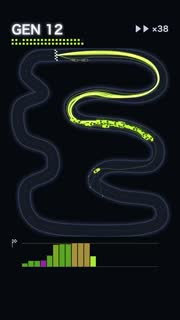
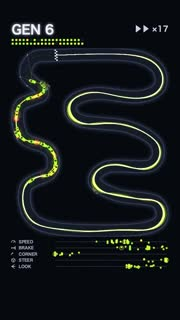
genetic_cars のサムネを更新

diff --git a/index.html b/index.html
@@ -38,7 +38,7 @@ main{display:grid;grid-template-columns:repeat(auto-fill,minmax(150px,1fr));gap:
 <main id="grid"></main>
 <div id="toast"></div>
 <script>
-const DATA = [{"i": 1, "name": "apollonian_gasket", "title": "整数の円のガスケット", "desc": "すき間に接する円を大きい順に入れると、曲率(1/半径)が全部整数。拡大しても整数", "url": "https://github.com/seoooma/shorts2d/releases/download/previews/apollonian_gasket_60s_preview.mp4"}, {"i": 2, "name": "brachistochrone", "title": "最速降下線", "desc": "A から B へ玉を転がす5本の道で競争するとサイクロイドが勝つ。しかもサイクロイドのおわんは、どこから放しても同じ時間で底に着く", "url": "https://github.com/seoooma/shorts2d/releases/download/previews/brachistochrone_60s_preview.mp4"}, {"i": 3, "name": "chladni", "title": "砂が描く模様", "desc": "震える板の上の砂が、揺れない線(節)に集まる", "url": "https://github.com/seoooma/shorts2d/releases/download/previews/chladni_60s_preview.mp4"}, {"i": 4, "name": "clifford_attractor", "title": "形を変える光の霧", "desc": "7つの星が霧に広がり、ねじれ・裂け・また7つの星に縮んで、また霧に", "url": "https://github.com/seoooma/shorts2d/releases/download/previews/clifford_attractor_60s_preview.mp4"}, {"i": 5, "name": "cyclotron", "title": "サイクロトロン", "desc": "同じテンポで押すだけで、粒は速くなりながららせんを描いて飛び出す。重さの違う粒は取り残される", "url": "https://github.com/seoooma/shorts2d/releases/download/previews/cyclotron_60s_preview.mp4"}, {"i": 6, "name": "dragon_fold", "title": "紙を折るドラゴン", "desc": "紙テープを半分に折って開くことをくり返すと、竜の形(ドラゴン曲線)になり、4匹で平面をうめる", "url": "https://github.com/seoooma/shorts2d/releases/download/previews/dragon_fold_60s_preview.mp4"}, {"i": 7, "name": "ellipse_foci", "title": "楕円の焦点で増える玉", "desc": "玉が焦点の○を通るたびに、そこから新しい玉が1個出る", "url": "https://github.com/seoooma/shorts2d/releases/download/previews/ellipse_foci_60s_preview.mp4"}, {"i": 8, "name": "figure_eight_3body", "title": "8の字を追う三体", "desc": "同じ並びから速さを変えて放すと、3つの星が8の字・蝶・蛾・毛糸玉を描いて元に戻る。少しずらすと崩れて1つが飛び去る", "url": "https://github.com/seoooma/shorts2d/releases/download/previews/figure_eight_3body_60s_preview.mp4"}, {"i": 9, "name": "firefly_sync", "title": "ホタルがそろう", "desc": "1000匹がばらばらに光る → 合わせる力 K が臨界をこえると一気に同じ拍 → K を下げるとまたばらばら", "url": "https://github.com/seoooma/shorts2d/releases/download/previews/firefly_sync_60s_preview.mp4"}, {"i": 10, "name": "fourier_circles", "title": "回る円で絵を描く", "desc": "回る円を大きい順に鎖のようにつなぐと、先端が ♪・π・ハート・星を描く(フーリエ級数)", "url": "https://github.com/seoooma/shorts2d/releases/download/previews/fourier_circles_60s_preview.mp4"}, {"i": 11, "name": "genetic_cars", "title": "Genetic algorithm cars", "desc": "40 cars with tiny brains learn to drive a circuit, generation by generation", "url": "https://github.com/seoooma/shorts2d/releases/download/previews/genetic_cars_60s_preview.mp4"}, {"i": 12, "name": "genetic_rockets", "title": "世代ごとに賢くなるロケット", "desc": "遺伝的アルゴリズムで、200機がすき間を見つけてゴールへ", "url": "https://github.com/seoooma/shorts2d/releases/download/previews/genetic_rockets_60s_preview.mp4"}, {"i": 13, "name": "hanoi_music", "title": "ハノイの塔の旋律", "desc": "9枚の円盤を 511 手で右の棒へ。動かす円盤の並びは「ものさし」の目盛りと同じ形", "url": "https://github.com/seoooma/shorts2d/releases/download/previews/hanoi_music_60s_preview.mp4"}, {"i": 14, "name": "life_methuselah", "title": "5マスが1103世代暴れる", "desc": "ライフゲームの R-ペントミノ。たった5マスが増えて、グライダーを撃ち出し、1103世代で静まる", "url": "https://github.com/seoooma/shorts2d/releases/download/previews/life_methuselah_60s_preview.mp4"}, {"i": 15, "name": "logistic_bifurcation", "title": "分岐の音を聴く", "desc": "r を上げると 1→2→4→8→カオス、周期3の窓、拡大すると同じ形", "url": "https://github.com/seoooma/shorts2d/releases/download/previews/logistic_bifurcation_60s_preview.mp4"}, {"i": 16, "name": "mandel_julia", "title": "マンデルブロとジュリア", "desc": "光る点 c が M のふちをなぞると、下のジュリア集合がうさぎ・竜・木の枝に変わり、外へ出ると粉々に", "url": "https://github.com/seoooma/shorts2d/releases/download/previews/mandel_julia_60s_preview.mp4"}, {"i": 17, "name": "maze_solver", "title": "迷路を作って解く", "desc": "穴掘り法で迷路を掘り、入口から幅優先探索で虹色の水を流して、最短の道を光らせる", "url": "https://github.com/seoooma/shorts2d/releases/download/previews/maze_solver_60s_preview.mp4"}, {"i": 18, "name": "pendulum_wave", "title": "振り子の波", "desc": "長さのちがう24本の振り子を同時に放すと、波・列・ばらばらを経て、57秒でぴたりとそろう", "url": "https://github.com/seoooma/shorts2d/releases/download/previews/pendulum_wave_60s_preview.mp4"}, {"i": 19, "name": "penrose_deflation", "title": "終わらないペンローズ", "desc": "10枚の三角形の「太陽」を黄金比で割り続けると、ペンローズのタイルになり、どこまでも拡大できる", "url": "https://github.com/seoooma/shorts2d/releases/download/previews/penrose_deflation_60s_preview.mp4"}, {"i": 20, "name": "perlin_silk", "title": "パーリンノイズの絹糸", "desc": "ノイズの値を「流れの向き」にして2万粒を流すと、軌跡が絹糸のように束になる", "url": "https://github.com/seoooma/shorts2d/releases/download/previews/perlin_silk_60s_preview.mp4"}, {"i": 21, "name": "pi_blocks", "title": "ぶつかる回数がπ", "desc": "壁と2つの箱(Galperin の箱)。重さの比を 1:1 → 1:100 → 1:100² → 1:100³ と上げると、3 → 31 → 314 → 3141 回", "url": "https://github.com/seoooma/shorts2d/releases/download/previews/pi_blocks_60s_preview.mp4"}, {"i": 22, "name": "prime_spirals", "title": "素数のらせん", "desc": "ふるいで残った素数を、四角いらせん(ウラム)から極座標 (半径 n, 角度 n ラジアン) へ移すと、渦と筋が現れる", "url": "https://github.com/seoooma/shorts2d/releases/download/previews/prime_spirals_60s_preview.mp4"}, {"i": 23, "name": "rayleigh_benard", "title": "下から温める水", "desc": "底の熱がキノコ形の柱で一斉に昇り、回る対流になり、火を強めると乱れ、止めると静まる", "url": "https://github.com/seoooma/shorts2d/releases/download/previews/rayleigh_benard_60s_preview.mp4"}, {"i": 24, "name": "ring_escape", "title": "回る輪から逃げる玉", "desc": "20重の回る輪のすき間を、重力で跳ねる玉が抜けるたびに輪が光の粒に砕け、玉が2個に増える", "url": "https://github.com/seoooma/shorts2d/releases/download/previews/ring_escape_60s_preview.mp4"}, {"i": 25, "name": "sandpile", "title": "砂山の曼荼羅", "desc": "真ん中に砂を落とし続け、4粒たまった所は上下左右へ1粒ずつ配る(アーベルの砂山モデル)", "url": "https://github.com/seoooma/shorts2d/releases/download/previews/sandpile_60s_preview.mp4"}, {"i": 26, "name": "snake_hamilton", "title": "画面を埋めつくすヘビ", "desc": "ハミルトン閉路と安全な近道のスネーク AI が、18×32 の 576 マスを全部ヘビにする", "url": "https://github.com/seoooma/shorts2d/releases/download/previews/snake_hamilton_60s_preview.mp4"}, {"i": 27, "name": "sorting_rainbow", "title": "並べ替えの虹", "desc": "円の周りの360本の棒(長さと色が値)を、5つのアルゴリズムで順に並べ替える", "url": "https://github.com/seoooma/shorts2d/releases/download/previews/sorting_rainbow_60s_preview.mp4"}, {"i": 28, "name": "swarmalators", "title": "動いて そろう粒", "desc": "1000粒が、2つのつまみ J・K の切り替えで 1色の円盤 → 虹の輪 → ちぎれた扇 → 回る輪 に変身する", "url": "https://github.com/seoooma/shorts2d/releases/download/previews/swarmalators_60s_preview.mp4"}, {"i": 29, "name": "tetris_ai", "title": "AIがテトリスで1000行消す", "desc": "全部の置き方を Dellacherie の評価関数で採点して、いちばん点の高い所に置く", "url": "https://github.com/seoooma/shorts2d/releases/download/previews/tetris_ai_60s_preview.mp4"}, {"i": 30, "name": "times_table_circle", "title": "円の掛け算表", "desc": "円の上の200個の点で、k 番と m×k 番(200で割った余り)を線で結ぶ。m を増やすと形が次々に変わる", "url": "https://github.com/seoooma/shorts2d/releases/download/previews/times_table_circle_60s_preview.mp4"}];
+const DATA = [{"i": 1, "name": "apollonian_gasket", "title": "整数の円のガスケット", "desc": "すき間に接する円を大きい順に入れると、曲率(1/半径)が全部整数。拡大しても整数", "url": "https://github.com/seoooma/shorts2d/releases/download/previews/apollonian_gasket_60s_preview.mp4"}, {"i": 2, "name": "brachistochrone", "title": "最速降下線", "desc": "A から B へ玉を転がす5本の道で競争するとサイクロイドが勝つ。しかもサイクロイドのおわんは、どこから放しても同じ時間で底に着く", "url": "https://github.com/seoooma/shorts2d/releases/download/previews/brachistochrone_60s_preview.mp4"}, {"i": 3, "name": "chladni", "title": "砂が描く模様", "desc": "震える板の上の砂が、揺れない線(節)に集まる", "url": "https://github.com/seoooma/shorts2d/releases/download/previews/chladni_60s_preview.mp4"}, {"i": 4, "name": "clifford_attractor", "title": "形を変える光の霧", "desc": "7つの星が霧に広がり、ねじれ・裂け・また7つの星に縮んで、また霧に", "url": "https://github.com/seoooma/shorts2d/releases/download/previews/clifford_attractor_60s_preview.mp4"}, {"i": 5, "name": "cyclotron", "title": "サイクロトロン", "desc": "同じテンポで押すだけで、粒は速くなりながららせんを描いて飛び出す。重さの違う粒は取り残される", "url": "https://github.com/seoooma/shorts2d/releases/download/previews/cyclotron_60s_preview.mp4"}, {"i": 6, "name": "dragon_fold", "title": "紙を折るドラゴン", "desc": "紙テープを半分に折って開くことをくり返すと、竜の形(ドラゴン曲線)になり、4匹で平面をうめる", "url": "https://github.com/seoooma/shorts2d/releases/download/previews/dragon_fold_60s_preview.mp4"}, {"i": 7, "name": "ellipse_foci", "title": "楕円の焦点で増える玉", "desc": "玉が焦点の○を通るたびに、そこから新しい玉が1個出る", "url": "https://github.com/seoooma/shorts2d/releases/download/previews/ellipse_foci_60s_preview.mp4"}, {"i": 8, "name": "figure_eight_3body", "title": "8の字を追う三体", "desc": "同じ並びから速さを変えて放すと、3つの星が8の字・蝶・蛾・毛糸玉を描いて元に戻る。少しずらすと崩れて1つが飛び去る", "url": "https://github.com/seoooma/shorts2d/releases/download/previews/figure_eight_3body_60s_preview.mp4"}, {"i": 9, "name": "firefly_sync", "title": "ホタルがそろう", "desc": "1000匹がばらばらに光る → 合わせる力 K が臨界をこえると一気に同じ拍 → K を下げるとまたばらばら", "url": "https://github.com/seoooma/shorts2d/releases/download/previews/firefly_sync_60s_preview.mp4"}, {"i": 10, "name": "fourier_circles", "title": "回る円で絵を描く", "desc": "回る円を大きい順に鎖のようにつなぐと、先端が ♪・π・ハート・星を描く(フーリエ級数)", "url": "https://github.com/seoooma/shorts2d/releases/download/previews/fourier_circles_60s_preview.mp4"}, {"i": 11, "name": "genetic_cars", "title": "Genetic algorithm cars", "desc": "40 cars learn to drive a circuit by evolving 5 driving traits", "url": "https://github.com/seoooma/shorts2d/releases/download/previews/genetic_cars_60s_preview.mp4"}, {"i": 12, "name": "genetic_rockets", "title": "世代ごとに賢くなるロケット", "desc": "遺伝的アルゴリズムで、200機がすき間を見つけてゴールへ", "url": "https://github.com/seoooma/shorts2d/releases/download/previews/genetic_rockets_60s_preview.mp4"}, {"i": 13, "name": "hanoi_music", "title": "ハノイの塔の旋律", "desc": "9枚の円盤を 511 手で右の棒へ。動かす円盤の並びは「ものさし」の目盛りと同じ形", "url": "https://github.com/seoooma/shorts2d/releases/download/previews/hanoi_music_60s_preview.mp4"}, {"i": 14, "name": "life_methuselah", "title": "5マスが1103世代暴れる", "desc": "ライフゲームの R-ペントミノ。たった5マスが増えて、グライダーを撃ち出し、1103世代で静まる", "url": "https://github.com/seoooma/shorts2d/releases/download/previews/life_methuselah_60s_preview.mp4"}, {"i": 15, "name": "logistic_bifurcation", "title": "分岐の音を聴く", "desc": "r を上げると 1→2→4→8→カオス、周期3の窓、拡大すると同じ形", "url": "https://github.com/seoooma/shorts2d/releases/download/previews/logistic_bifurcation_60s_preview.mp4"}, {"i": 16, "name": "mandel_julia", "title": "マンデルブロとジュリア", "desc": "光る点 c が M のふちをなぞると、下のジュリア集合がうさぎ・竜・木の枝に変わり、外へ出ると粉々に", "url": "https://github.com/seoooma/shorts2d/releases/download/previews/mandel_julia_60s_preview.mp4"}, {"i": 17, "name": "maze_solver", "title": "迷路を作って解く", "desc": "穴掘り法で迷路を掘り、入口から幅優先探索で虹色の水を流して、最短の道を光らせる", "url": "https://github.com/seoooma/shorts2d/releases/download/previews/maze_solver_60s_preview.mp4"}, {"i": 18, "name": "pendulum_wave", "title": "振り子の波", "desc": "長さのちがう24本の振り子を同時に放すと、波・列・ばらばらを経て、57秒でぴたりとそろう", "url": "https://github.com/seoooma/shorts2d/releases/download/previews/pendulum_wave_60s_preview.mp4"}, {"i": 19, "name": "penrose_deflation", "title": "終わらないペンローズ", "desc": "10枚の三角形の「太陽」を黄金比で割り続けると、ペンローズのタイルになり、どこまでも拡大できる", "url": "https://github.com/seoooma/shorts2d/releases/download/previews/penrose_deflation_60s_preview.mp4"}, {"i": 20, "name": "perlin_silk", "title": "パーリンノイズの絹糸", "desc": "ノイズの値を「流れの向き」にして2万粒を流すと、軌跡が絹糸のように束になる", "url": "https://github.com/seoooma/shorts2d/releases/download/previews/perlin_silk_60s_preview.mp4"}, {"i": 21, "name": "pi_blocks", "title": "ぶつかる回数がπ", "desc": "壁と2つの箱(Galperin の箱)。重さの比を 1:1 → 1:100 → 1:100² → 1:100³ と上げると、3 → 31 → 314 → 3141 回", "url": "https://github.com/seoooma/shorts2d/releases/download/previews/pi_blocks_60s_preview.mp4"}, {"i": 22, "name": "prime_spirals", "title": "素数のらせん", "desc": "ふるいで残った素数を、四角いらせん(ウラム)から極座標 (半径 n, 角度 n ラジアン) へ移すと、渦と筋が現れる", "url": "https://github.com/seoooma/shorts2d/releases/download/previews/prime_spirals_60s_preview.mp4"}, {"i": 23, "name": "rayleigh_benard", "title": "下から温める水", "desc": "底の熱がキノコ形の柱で一斉に昇り、回る対流になり、火を強めると乱れ、止めると静まる", "url": "https://github.com/seoooma/shorts2d/releases/download/previews/rayleigh_benard_60s_preview.mp4"}, {"i": 24, "name": "ring_escape", "title": "回る輪から逃げる玉", "desc": "20重の回る輪のすき間を、重力で跳ねる玉が抜けるたびに輪が光の粒に砕け、玉が2個に増える", "url": "https://github.com/seoooma/shorts2d/releases/download/previews/ring_escape_60s_preview.mp4"}, {"i": 25, "name": "sandpile", "title": "砂山の曼荼羅", "desc": "真ん中に砂を落とし続け、4粒たまった所は上下左右へ1粒ずつ配る(アーベルの砂山モデル)", "url": "https://github.com/seoooma/shorts2d/releases/download/previews/sandpile_60s_preview.mp4"}, {"i": 26, "name": "snake_hamilton", "title": "画面を埋めつくすヘビ", "desc": "ハミルトン閉路と安全な近道のスネーク AI が、18×32 の 576 マスを全部ヘビにする", "url": "https://github.com/seoooma/shorts2d/releases/download/previews/snake_hamilton_60s_preview.mp4"}, {"i": 27, "name": "sorting_rainbow", "title": "並べ替えの虹", "desc": "円の周りの360本の棒(長さと色が値)を、5つのアルゴリズムで順に並べ替える", "url": "https://github.com/seoooma/shorts2d/releases/download/previews/sorting_rainbow_60s_preview.mp4"}, {"i": 28, "name": "swarmalators", "title": "動いて そろう粒", "desc": "1000粒が、2つのつまみ J・K の切り替えで 1色の円盤 → 虹の輪 → ちぎれた扇 → 回る輪 に変身する", "url": "https://github.com/seoooma/shorts2d/releases/download/previews/swarmalators_60s_preview.mp4"}, {"i": 29, "name": "tetris_ai", "title": "AIがテトリスで1000行消す", "desc": "全部の置き方を Dellacherie の評価関数で採点して、いちばん点の高い所に置く", "url": "https://github.com/seoooma/shorts2d/releases/download/previews/tetris_ai_60s_preview.mp4"}, {"i": 30, "name": "times_table_circle", "title": "円の掛け算表", "desc": "円の上の200個の点で、k 番と m×k 番(200で割った余り)を線で結ぶ。m を増やすと形が次々に変わる", "url": "https://github.com/seoooma/shorts2d/releases/download/previews/times_table_circle_60s_preview.mp4"}];
 const KEY = "shorts2d-pick-v1";
 const LABEL = {yes: "要", hold: "保留", no: "不要"};
 let st = {};
